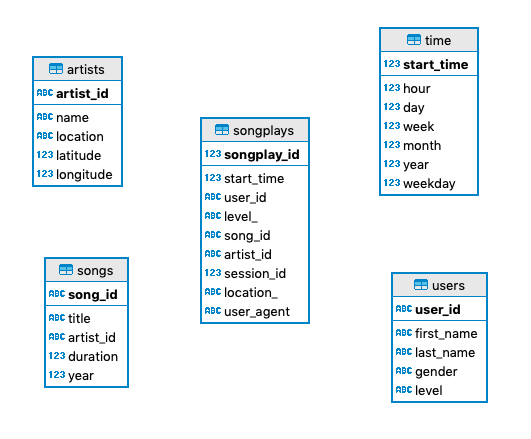
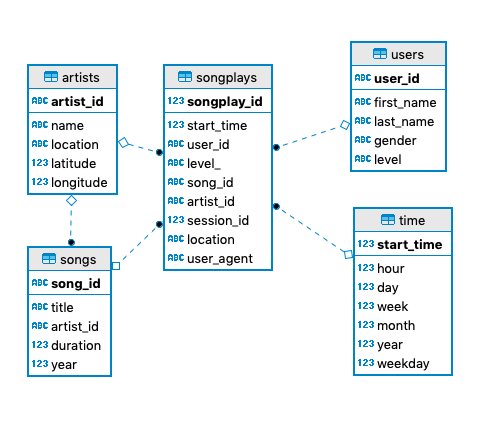
Small improvements to the project base on code review:
- Improved constraints on CREATE TABLE statements.
- Changes the on conflict resolution for the users insert statement.
- Shows the different relationships in the relational-model.png graphic.
- Adds docstrings to all functions in the project.

diff --git a/etl.py b/etl.py
@@ -6,6 +6,13 @@ from sql_queries import *
 
 
 def process_song_file(cur, filepath):
+    """
+    Imports data into the songs and artists tables based on the information of the JSON file specified by the filepath.
+    :param cur:
+        Cursor to execute statements against the sparkifyDB
+    :param filepath: string
+        File path to one of the JSON song files
+    """
     # open song file
     df = pd.read_json(filepath, lines=True)
 
@@ -19,6 +26,14 @@ def process_song_file(cur, filepath):
 
 
 def process_log_file(cur, filepath):
+    """
+    Imports data into the users, time and songplays tables based on the information of the JSON file specified by the
+    file path.
+    :param cur:
+        Cursor to execute statements against the sparkifyDB
+    :param filepath: string
+        File path to one of the JSON events log files
+    """
     # open log file
     df = pd.read_json(filepath, lines=True)
 
@@ -69,6 +84,17 @@ def process_log_file(cur, filepath):
 
 
 def process_data(cur, conn, filepath, func):
+    """
+    Calls the `func` function for every JSON file contained in the folder specified by filepath.
+    :param cur:
+        Cursor to execute statements against the sparkifyDB database.
+    :param conn:
+        Connection to the sparkifyDB database.
+    :param filepath:
+        Folder where files are going to be searched.
+    :param func:
+        Function to be called for each file found in the folder specified by the `filepath`.
+    """
     # get all files matching extension from directory
     all_files = []
     for root, dirs, files in os.walk(filepath):
@@ -88,6 +114,11 @@ def process_data(cur, conn, filepath, func):
 
 
 def main():
+    """
+    Executes the ETL process to import data into the sparkifydb database.
+    Reads all JSON files for songs and log events. And with this information fills in the songs, artists,
+    time, users and songplays tables.
+    """
     conn = psycopg2.connect("host=127.0.0.1 dbname=sparkifydb user=student password=student")
     cur = conn.cursor()
 

diff --git a/sql_queries.py b/sql_queries.py
@@ -11,12 +11,12 @@ time_table_drop = "DROP TABLE IF EXISTS time"
 songplay_table_create = ("""
 CREATE TABLE IF NOT EXISTS songplays(
 songplay_id serial PRIMARY KEY,
-start_time bigint,
-user_id varchar,
-level varchar,
+start_time bigint NOT NULL,
+user_id varchar NOT NULL,
+level varchar NOT NULL,
 song_id varchar,
 artist_id varchar,
-session_id bigint,
+session_id bigint NOT NULL,
 location varchar,
 user_agent varchar,
 foreign key (start_time) references time(start_time),
@@ -32,14 +32,14 @@ user_id varchar PRIMARY KEY,
 first_name varchar,
 last_name varchar,
 gender varchar,
-level varchar
+level varchar NOT NULL
 )
 """)
 
 song_table_create = ("""
 CREATE TABLE IF NOT EXISTS songs(
 song_id varchar PRIMARY KEY,
-title varchar,
+title varchar NOT NULL,
 artist_id varchar,
 duration float,
 year int,
@@ -50,7 +50,7 @@ foreign key (artist_id) references artists(artist_id)
 artist_table_create = ("""
 CREATE TABLE IF NOT EXISTS artists(
 artist_id varchar PRIMARY KEY,
-name varchar,
+name varchar NOT NULL,
 location varchar,
 latitude float,
 longitude float
@@ -60,12 +60,12 @@ longitude float
 time_table_create = ("""
 CREATE TABLE IF NOT EXISTS time(
 start_time bigint PRIMARY KEY,
-hour int,
-day int,
-week int,
-month int, 
-year int,
-weekday int
+hour int NOT NULL,
+day int NOT NULL,
+week int NOT NULL,
+month int NOT NULL, 
+year int NOT NULL,
+weekday int NOT NULL
 )
 """)
 
@@ -79,7 +79,9 @@ values(%s, %s, %s, %s, %s, %s, %s, %s)
 user_table_insert = ("""
 insert into users(user_id, first_name, last_name, gender, level) 
 values(%s, %s, %s, %s, %s)
-on conflict(user_id) do nothing
+on conflict(user_id) 
+do update 
+    set level = excluded.level
 """)
 
 song_table_insert = ("""
@@ -96,6 +98,7 @@ on conflict(artist_id) do nothing
 time_table_insert = ("""
 insert into time(start_time, hour, day, week, month, year, weekday) 
 values(%s, %s, %s, %s, %s, %s, %s)
+on conflict(start_time) do nothing
 """)
 
 # FIND SONGS

diff --git a/create_tables.py b/create_tables.py
@@ -3,6 +3,10 @@ from sql_queries import create_table_queries, drop_table_queries
 
 
 def create_database():
+    """
+    Creates a connection to the database and re-creates the database sparkifyDB
+    :return: (cur, conn) - The cursor and connection objects for the sparkifyDB database
+    """
     # connect to default database
     conn = psycopg2.connect("host=127.0.0.1 dbname=studentdb user=student password=student")
     conn.set_session(autocommit=True)
@@ -23,18 +27,36 @@ def create_database():
 
 
 def drop_tables(cur, conn):
+    """
+    Drops all the tables defined in the `drop_table_queries` list
+    :param cur:
+        The cursor to execute statements against the sparkifyDB database
+    :param conn:
+        The connection to the sparkifyDB database
+    """
     for query in drop_table_queries:
         cur.execute(query)
         conn.commit()
 
 
 def create_tables(cur, conn):
+    """
+    Creates all the tables defined in the `create_table_queries` list
+    :param cur:
+        The cursor to execute statements against the sparkifyDB database
+    :param conn:
+        The connection to the sparkifyDB database
+    """
     for query in create_table_queries:
         cur.execute(query)
         conn.commit()
 
 
 def main():
+    """
+    Creates the sparkifyDB databe, drops all tables if they exist and creates them again.
+    It cleans the database to re-run the ETL process.
+    """
     cur, conn = create_database()
     
     drop_tables(cur, conn)
